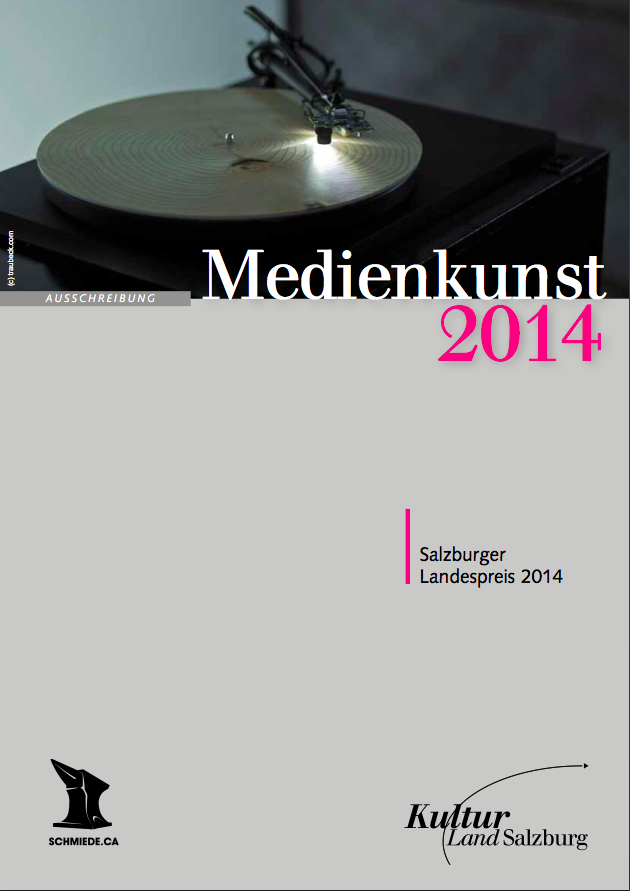
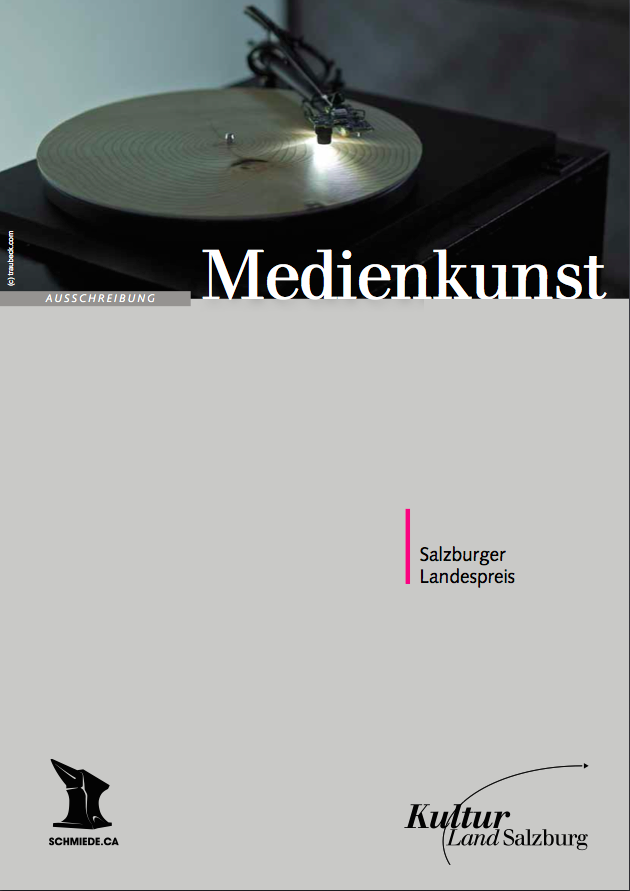
new year

Changed region(s): [[0.6937, 0.3333, 0.9651, 0.4242], [0.8143, 0.6364, 0.9048, 0.6667]]

diff --git a/apply/index.html b/apply/index.html
@@ -4,8 +4,8 @@ title: Schmiede - 2014 application
 ---
 <div class="application">
   <div class="claim image-section" style="background-image: url({{ site.base_url }}/images/work_together.jpg)">
-    <h1>SCHMIEDE APPLICATION 2014</h1>
-    <h2>SelfAssembling, 11. - 21. September</h2>
+    <h1>SCHMIEDE APPLICATION 2015</h1>
+    <h2>late September</h2>
   </div>
 
   <div class="container" style="margin-top: 40px;">
@@ -27,7 +27,7 @@ title: Schmiede - 2014 application
         <p>
           <dl class="dl-horizontal lead">
             <dt>When:</dt>
-            <dd>11.-21. September 2014</dd>
+            <dd>late September 2015 (exact dates soon)</dd>
             <dt>Where:</dt>
             <dd>
               <a href="https://maps.google.com/maps/ms?msa=0&msid=209371383360961785408.0004ab076cae1500b5f3e&dg=feature">
@@ -51,7 +51,7 @@ title: Schmiede - 2014 application
   <div class="container">
     <div class="col-md-9 col-md-offset-1">
       <p class="lead">
-        The program of Schmiede14 is work in progress till midsummer.
+        The program of Schmiede15 is work in progress till midsummer.
         The reason for this is that what actually will happens depends heavily on
         the projects and people participating each year. <br /><br />
         <strong>Let us know about  public events you want in the application or <a href="/impressum.html">get in touch</a></strong>
@@ -71,7 +71,7 @@ title: Schmiede - 2014 application
         Day 8 - Setting up, testing and cleaning up what is not needed on Saturday.<br />
         Day 8 - SalzburgMediaArtAward will be presented followed by SmithPerformances.<br />
         Day 9 - SchmiedeWorkShow day (will be hectic).<br />
-        Day 10 - Last Breakfast und Auf Wiedersehen
+        Day 10 - Last Breakfast and 'Auf Wiedersehen'
       </p>
     </div>
   </div>
@@ -80,7 +80,7 @@ title: Schmiede - 2014 application
     <div id="schmiede-apply-form" class="col-md-9 col-md-offset-1">
       <iframe
          src="https://docs.google.com/forms/d/1ZbD89C2irLbwdB0I1b6byzbDhgC-i-6e5TWi1V1_0JM/viewform?embedded=true"
-         width="800" height="3000"
+         width="800" height="3400"
          frameborder="0" marginheight="0" marginwidth="0">
          Loading...
       </iframe>

diff --git a/impressum.html b/impressum.html
@@ -29,15 +29,10 @@ title: Impressum - Schmiede
         die schmiede-website kann hyperlinks auf webseiten dritter enthalten. die schmiede hallein übernimmt für die inhalte dieser webseiten weder eine verantwortung noch macht die schmiede sich diese webseiten und ihre inhalte zu eigen, da sie die verlinkten informationen nicht kontrolliert und für die dort bereit gehaltenen inhalte und informationen auch nicht verantwortlich ist.
     </p>
 
+
+    <h4>pictures on Schmiede.ca by:</h4>
     <p>
-        <h4>main page pano credits:</h4>
-        <b>participants 09 on roof</b> <br>
-        idea: Maria Morschitzky <br>
-        photo: Ela Grieshaber <br>
-        stitched: Benjamin Hohnheiser <br>
-        <br><br>
-        <b>other panos</b> <br>
-        gunnar lindner
+        Gunnar Lindner, Gregor Sams, Ela Grieshaber, Stadt Hallein, Tourismusverbnd Hallein, Schmiede Hallein
     </p>
   </div>
 </div>

diff --git a/_layouts/default.html b/_layouts/default.html
@@ -26,9 +26,8 @@
             <li><a href="http://schmiede.tumblr.com/" target="_BLANK">Blog</a></li>
             <li><a href="{{ site.base_url }}/location/">Location</a></li>
             <li><a href="{{ site.base_url }}/medienkunstpreis/">Medienkunstpreis</a></li>
-            <li><a href="{{ site.base_url }}/2014.html" class="btn btn-primary btn-lg yellow" style="font-weight: normal;">SCHMIEDE<b>14</b></a></li>
-
-            <!--<li><a href="{{ site.base_url }}/apply/" class="btn btn-primary btn-lg yellow">APPLY</a></li>-->
+            <!--<li><a href="{{ site.base_url }}/2015.html" class="btn btn-primary btn-lg yellow" style="font-weight: normal;">SCHMIEDE<b>15</b></a></li> -->
+            <li><a href="{{ site.base_url }}/apply/" class="btn btn-primary btn-lg yellow">APPLY</a></li>
           </ul>
         </div>
       </div>

diff --git a/index.html b/index.html
@@ -75,7 +75,7 @@ title: Schmiede - Playground of Ideas
     Got your attention?
   </h2>
   <p>
-    Join us for the Schmiede14, 11. - 21. September 2014!
+    Join us for ten Schmiede days in late September.
     <br /><br />
     <a href="/apply/" class="btn btn-primary btn-lg yellow">APPLICATION</a>
   </p>

diff --git a/css/main.css b/css/main.css
@@ -214,6 +214,8 @@ h1, h2, h3, h4, h5, h6 {
 #schmiede-apply-form {
   border: 1px solid #ccc;
   overflow: hidden;
+  width: 786px;
+  padding: 0px;
 }
 
 .application .dl-horizontal dd {
